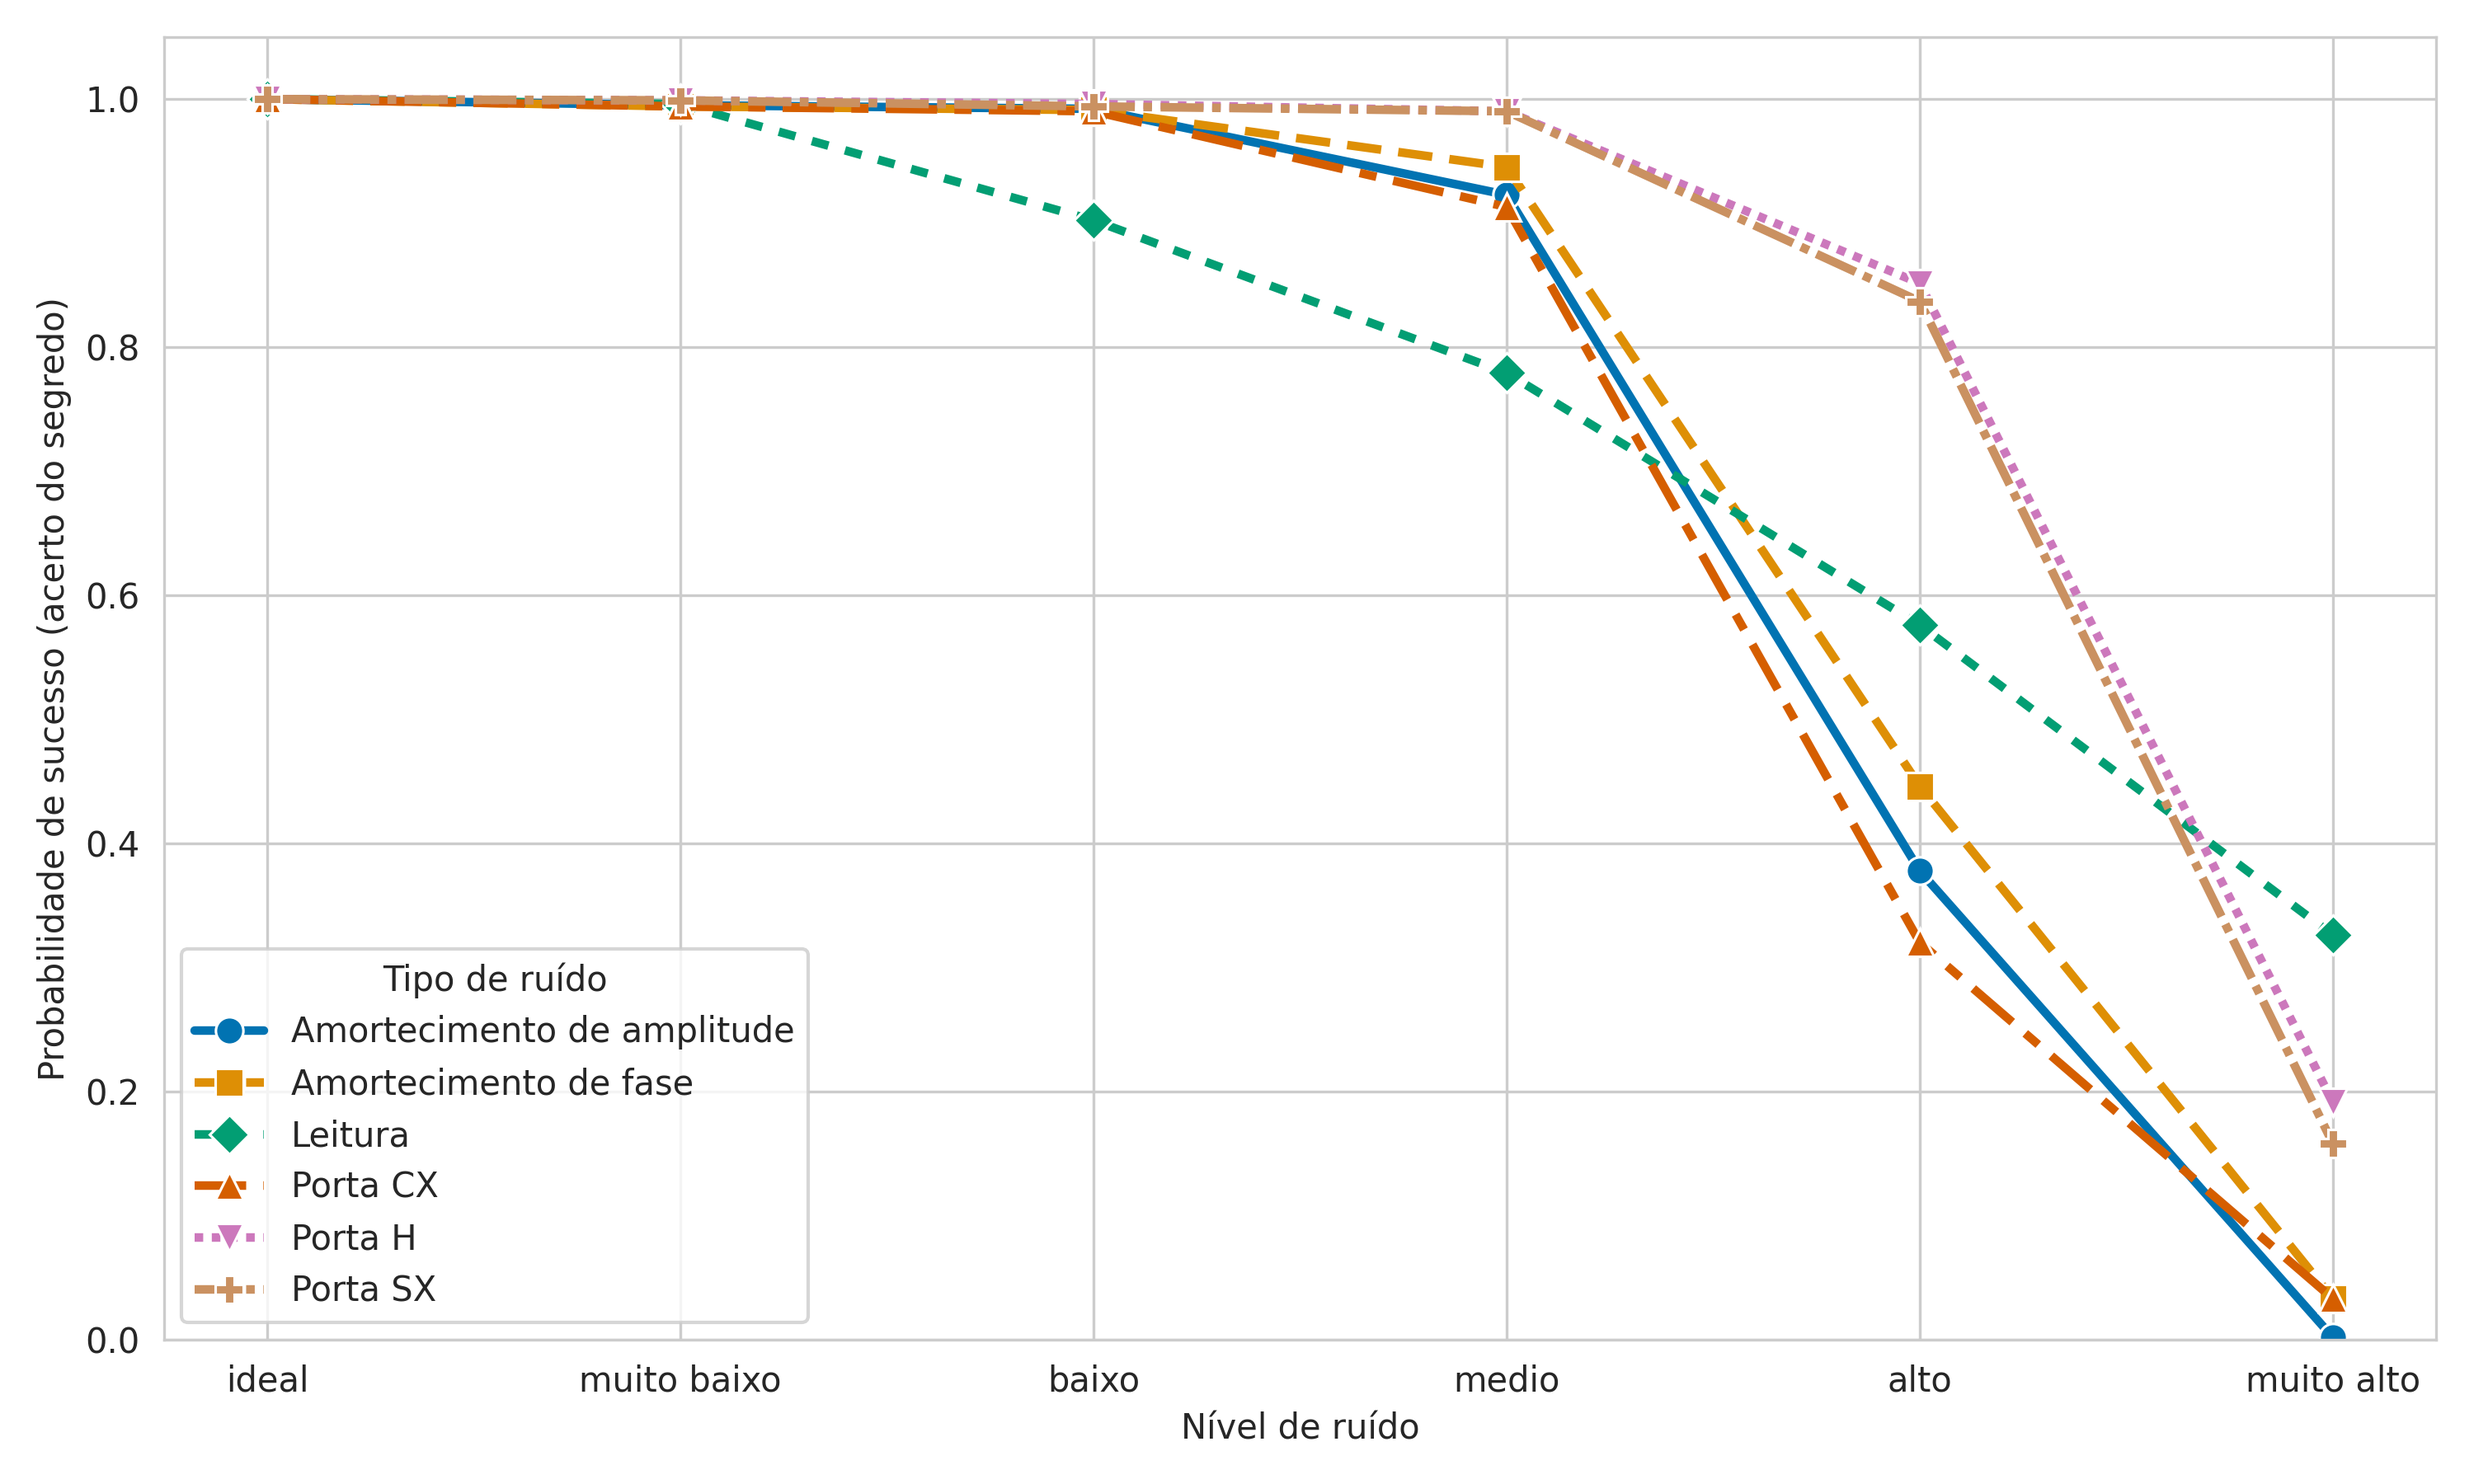
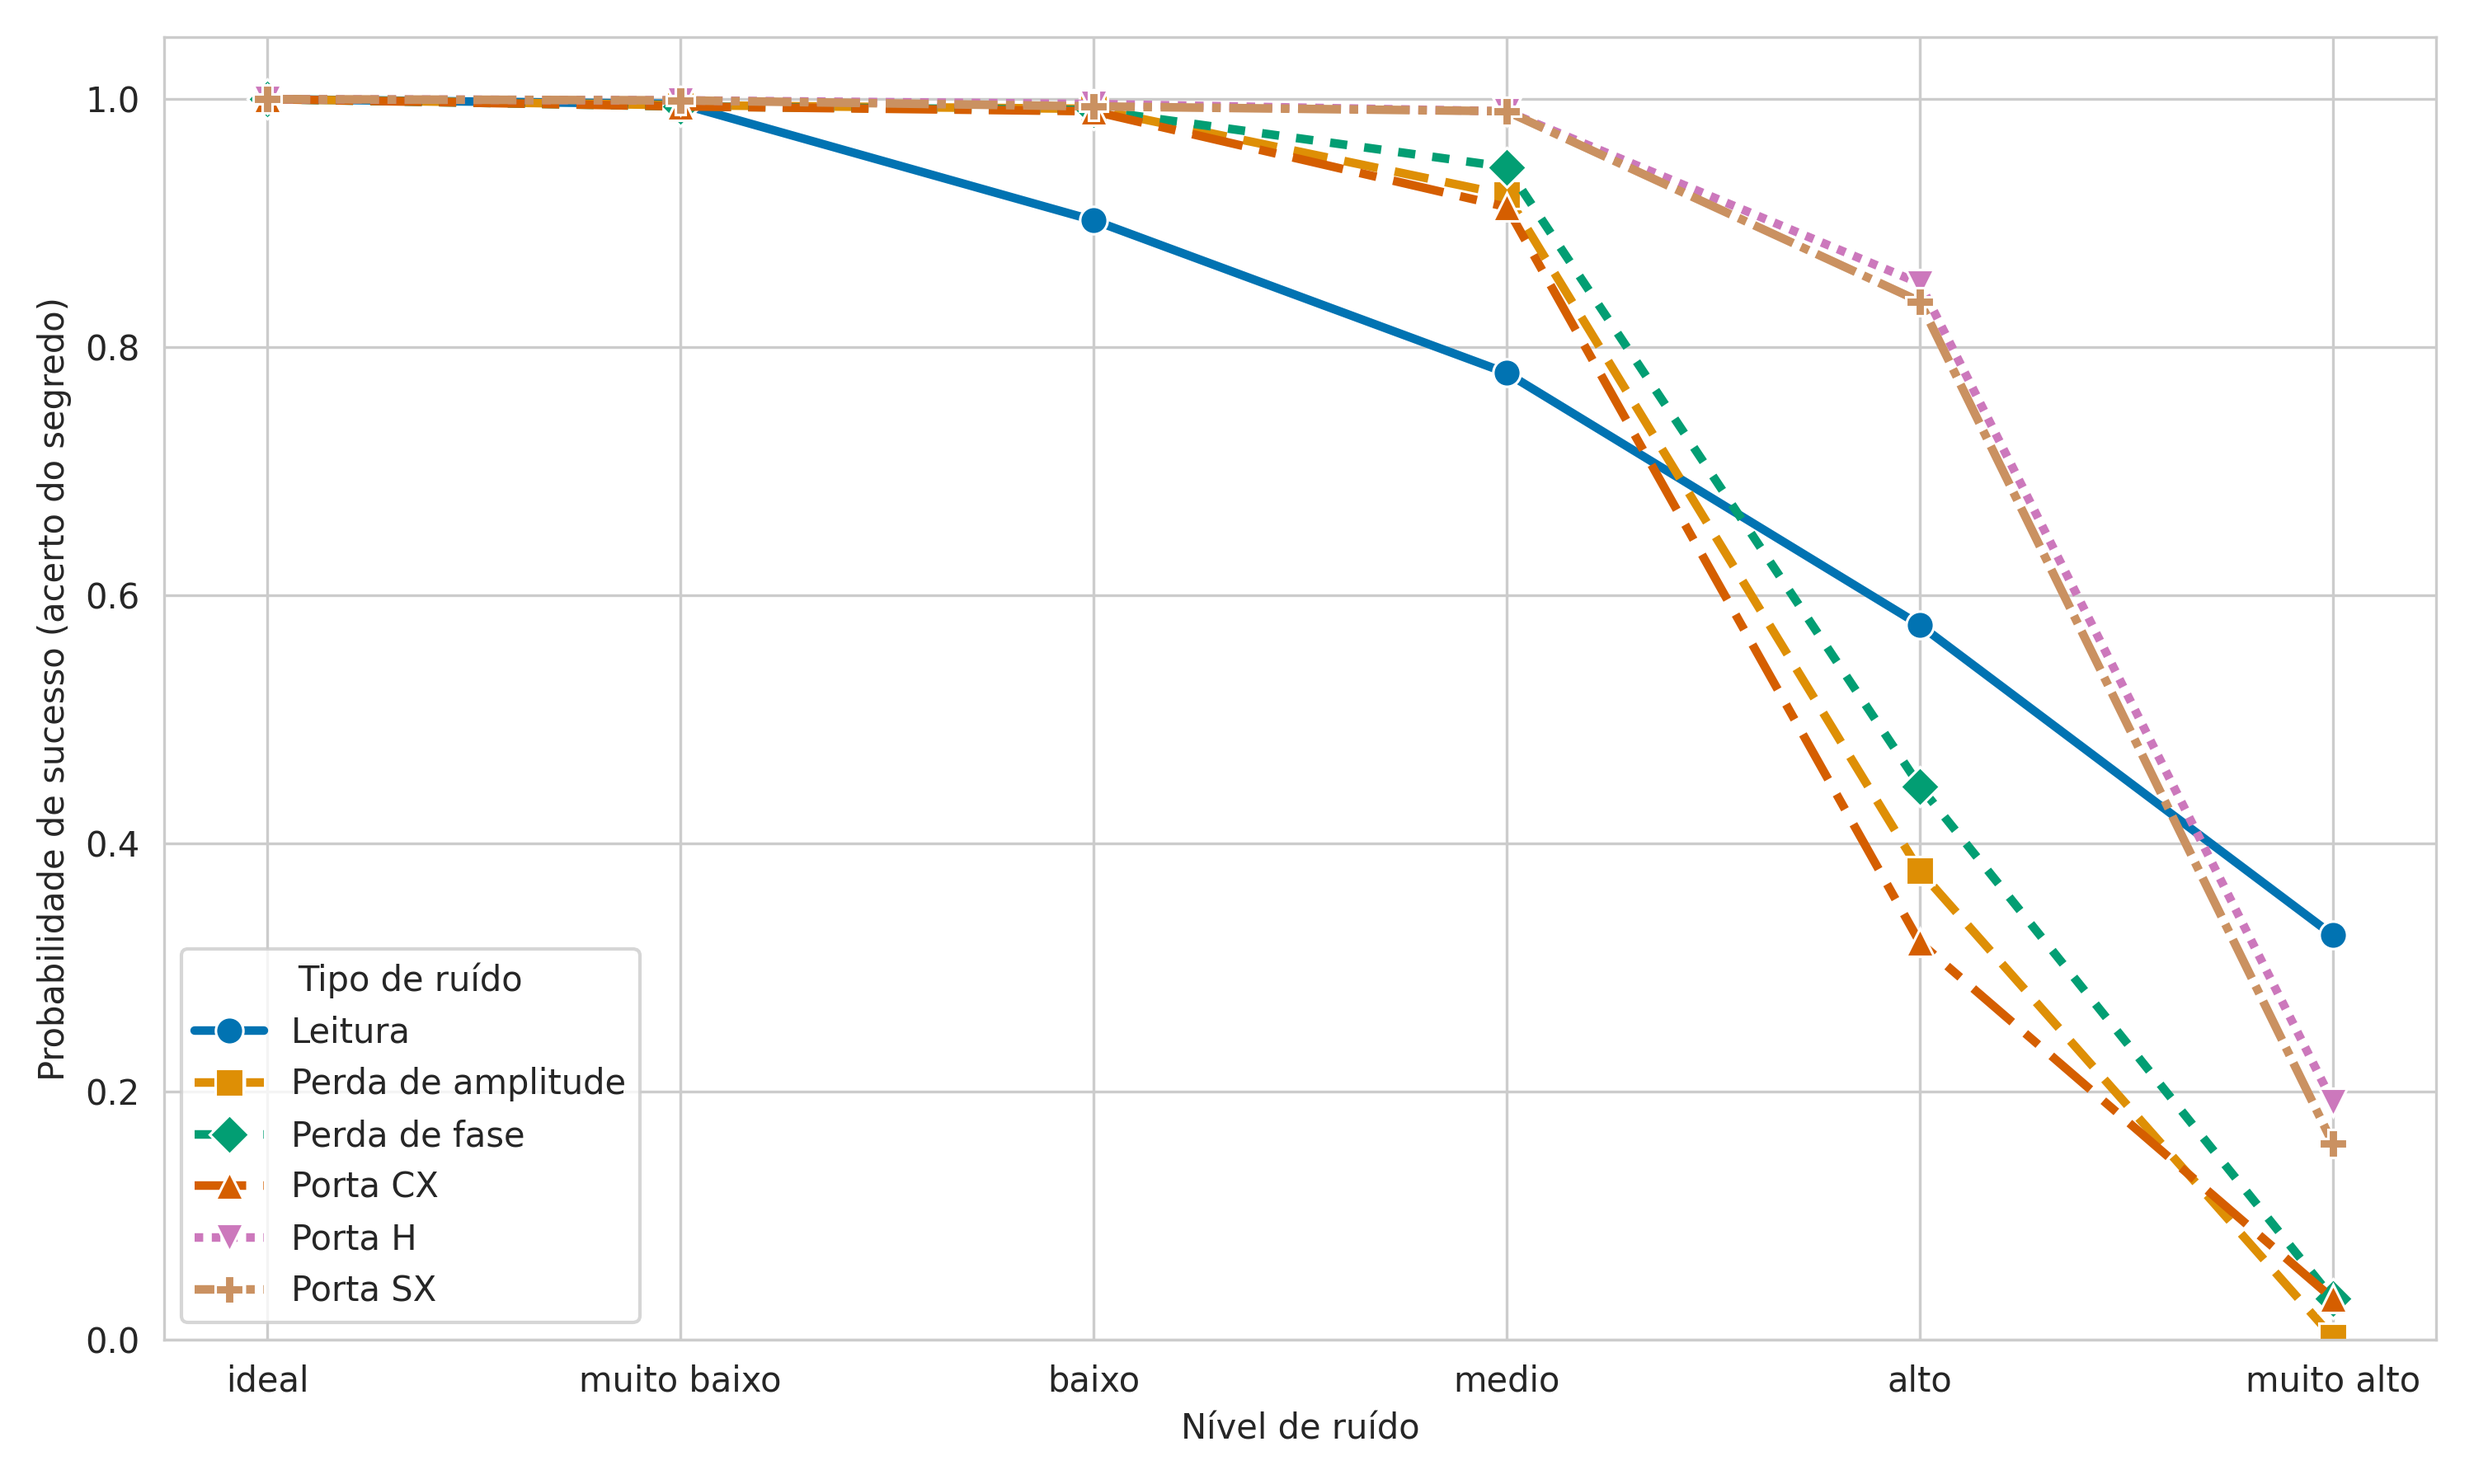
feat(bv): add new plots

diff --git a/src/plot_survival_curve.py b/src/plot_survival_curve.py
@@ -36,8 +36,8 @@ NOISE_KINDS_OF_INTEREST: dict[str, str] = {
     "cx_gate": "Porta CX",
     "h_gate": "Porta H",
     "sx_gate": "Porta SX",
-    "amplitude_damping": "Amortecimento de amplitude",
-    "phase_damping": "Amortecimento de fase",
+    "amplitude_damping": "Perda de amplitude",
+    "phase_damping": "Perda de fase",
     "readout": "Leitura",
 }
 
